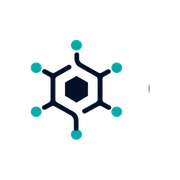
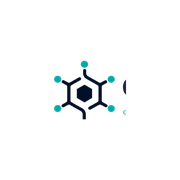
docs: update branding to EngramSpec

Changed region(s): [[0.1667, 0.2222, 0.7222, 0.7778], [0.6667, 0.4444, 0.7222, 0.5278], [0.8056, 0.4722, 0.8333, 0.5278]]

diff --git a/README.md b/README.md
@@ -1,8 +1,8 @@
 <p align="center">
-  <img src="assets/engram_full_logo_transparent.png" alt="Engram open protocol logo" width="720">
+  <img src="assets/engramspec_logo_transparent.png" alt="EngramSpec open memory protocol logo" width="760">
 </p>
 
-# Engram Memory Protocol
+# EngramSpec
 
 **The open standard for portable, governed AI memory.**
 
@@ -14,7 +14,7 @@
 
 ## Abstract
 
-Every AI system today starts from zero knowledge of its user. Memory is siloed by product, by company, by session — a structural problem no single AI company has incentive to fix. Engram is an open protocol that defines how any AI runtime retrieves structured, signed, user-governed memory from any conforming provider. One HTTP endpoint. Any runtime. User controls everything.
+Every AI system today starts from zero knowledge of its user. Memory is siloed by product, by company, by session — a structural problem no single AI company has incentive to fix. EngramSpec defines Engram, an open protocol that lets any AI runtime retrieve structured, signed, user-governed memory from any conforming provider. One HTTP endpoint. Any runtime. User controls everything.
 
 Engram is a format specification — like JSON, like OAuth — not a product. Anyone can implement it. No one owns it.
 

diff --git a/spec/v0.1.md b/spec/v0.1.md
@@ -1,8 +1,8 @@
 <p align="center">
-  <img src="../assets/engram_full_logo_transparent.png" alt="Engram open protocol logo" width="720">
+  <img src="../assets/engramspec_logo_transparent.png" alt="EngramSpec open memory protocol logo" width="760">
 </p>
 
-# Engram Standard
+# EngramSpec Standard
 ## The Open Standard for Portable, Governed AI Memory
 > Created: 2026-04-20 | Updated: 2026-06-04
 > Status: RFC Draft v0.1 — Published